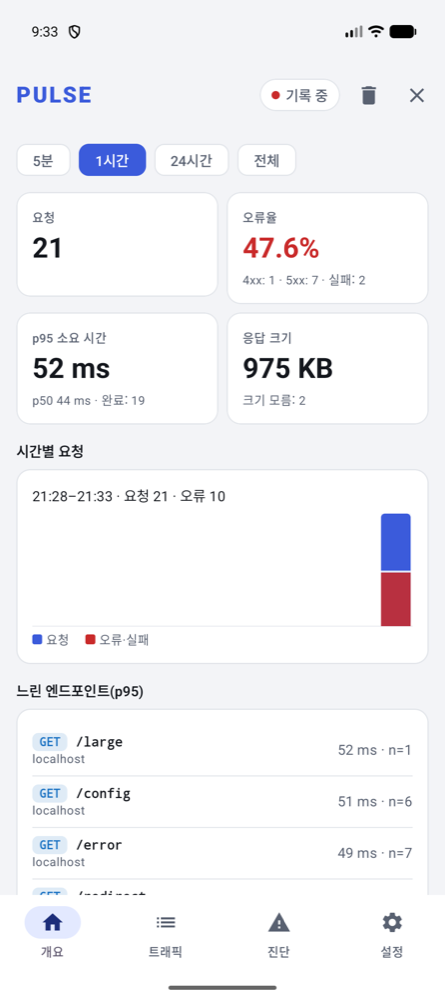
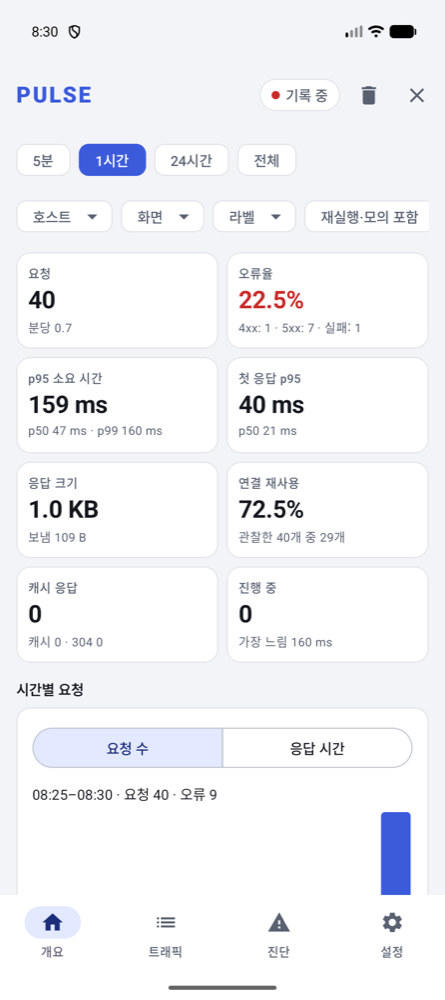
docs: 대시보드 스크린샷 갱신

diff --git a/README.md b/README.md
@@ -13,10 +13,10 @@
     <td align="center" width="25%"><img src="docs/images/screen-timeline.png" width="200" alt="타임라인"><br><b>타임라인</b><br>단계·응답 대기</td>
   </tr>
   <tr>
-    <td align="center"><img src="docs/images/screen-overview.png" width="200" alt="개요"><br><b>개요</b><br>오류율·p95·시간별 요청</td>
+    <td align="center"><img src="docs/images/screen-overview.png" width="200" alt="대시보드"><br><b>대시보드</b><br>필터·지표 8개·추이</td>
     <td align="center"><img src="docs/images/screen-insights.png" width="200" alt="진단"><br><b>진단</b><br>기준값·관찰값·근거 요청</td>
     <td align="center"><img src="docs/images/screen-replay.png" width="200" alt="재실행"><br><b>재실행</b><br>허용 호스트·위험 확인</td>
-    <td align="center"><img src="docs/images/screen-settings.png" width="200" alt="설정"><br><b>설정</b><br>기록·수집 설정</td>
+    <td align="center"><img src="docs/images/screen-endpoints.png" width="200" alt="엔드포인트와 분류"><br><b>엔드포인트·분류</b><br>템플릿 묶음·화면·라벨별</td>
   </tr>
 </table>
 
